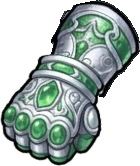
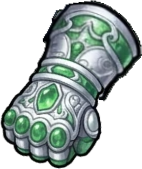
Găng Linh ghép: kéo giãn cổ găng theo hướng vòng đai để mép trái khớp đai (cổ găng gốc bị găng trái che mất mép trái)
Claude-Session: https://claude.ai/code/session_014A94BHnyL4tu48AS77QbVM

diff --git a/tools/art/linh_glove_join.py b/tools/art/linh_glove_join.py
@@ -31,7 +31,17 @@ cuff=np.zeros((H,W,4),np.uint8); cuff[oy:oy+rg.shape[0],ox:ox+rg.shape[1]]=rg
 cp=np.zeros((H,W),np.uint8)
 cv2.fillPoly(cp,[np.array([(1140,40),(1260,40),(1260,150),(1200,166),(1128,148)],np.int32)],255)   # phần trên vòng đai
 cuff[...,3]=(cuff[...,3].astype(int)*cp//255).astype(np.uint8)
+# Cổ găng chiếc phải bị nắm tay găng trái che mất mép trái trong ảnh mẫu → hẹp hơn vòng đai ~12px ở mép trái.
+# Đo trên lưới phóng to (toạ độ ảnh mẫu): đai từ (1131,126) tới (1192,155); mép phải cổ găng khớp đầu phải đai (~1196,156),
+# góc dưới-trái cổ găng ở (1143,122). Kéo giãn cổ găng dọc hướng đai, giữ cố định mép phải, để mép trái chạm đầu trái đai.
+u=np.array([61.0,29.0]); u/=np.linalg.norm(u)
+s_r=np.dot([1196,156],u); s_cl=np.dot([1143,122],u); s_bl=np.dot([1131,126],u)
+f=(s_r-(s_bl+1))/(s_r-s_cl)
+A=np.eye(2)+(f-1)*np.outer(u,u); o=(1-f)*s_r*u
+cuff=cv2.warpAffine(cuff,np.hstack([A,o[:,None]]).astype(np.float32),(W,H),flags=cv2.INTER_LINEAR,borderValue=(0,0,0,0))
+print('giãn cổ găng theo hướng đai x%.3f'%f)
 out=np.array(Image.alpha_composite(Image.fromarray(cuff,'RGBA'),Image.fromarray(fist,'RGBA')))
+
 im=Image.fromarray(out,'RGBA'); im=im.crop(im.getchannel('A').point(lambda v:255 if v>30 else 0).getbbox())
 im.save(g.REF+'/linh_glove_joined.png'); im.save('/home/user/martial-peak/tools/art/out/linh_glove_joined.png')
 Image.alpha_composite(Image.new('RGBA',im.size,(255,255,255,255)),im).convert('RGB').save('/home/user/martial-peak/tools/art/out/linh_glove_joined_white.png')
